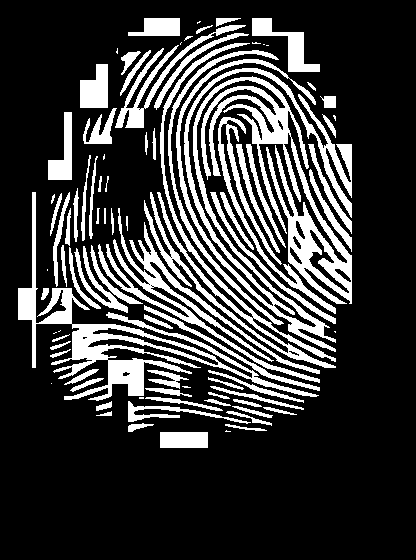
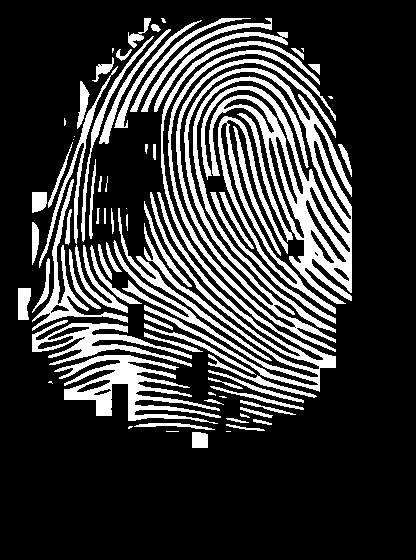
Update images in section Vyhodnotenie
The original images were ones from before adding Butterworth filtering
and frequency image blurring to the app.

diff --git a/doc/projekt-01-kapitoly-chapters.tex b/doc/projekt-01-kapitoly-chapters.tex
@@ -1340,7 +1340,7 @@
   nemá výlučne iba ochorenie pokožky, ale aj nízky kontrast medzi papilárnymi líniami a pozadím - vidno na ľavej strane filtrovanej
   snímky~{\ref{obr:ecsema_gabor}}. Toto naznačuje nedostatočné alebo nekvalitné predspracovanie.
 
-  \begin{figure}[h]%TODO tieto snimky aktualizovat na take, kde sa pouzil butterworth a rozostrena freqkvencna snimka
+  \begin{figure}[h]
     \centering
     \begin{subfigure}[b]{0.3\linewidth}
       \includegraphics[width=\linewidth]{obrazky-figures/warts_orig.png}
